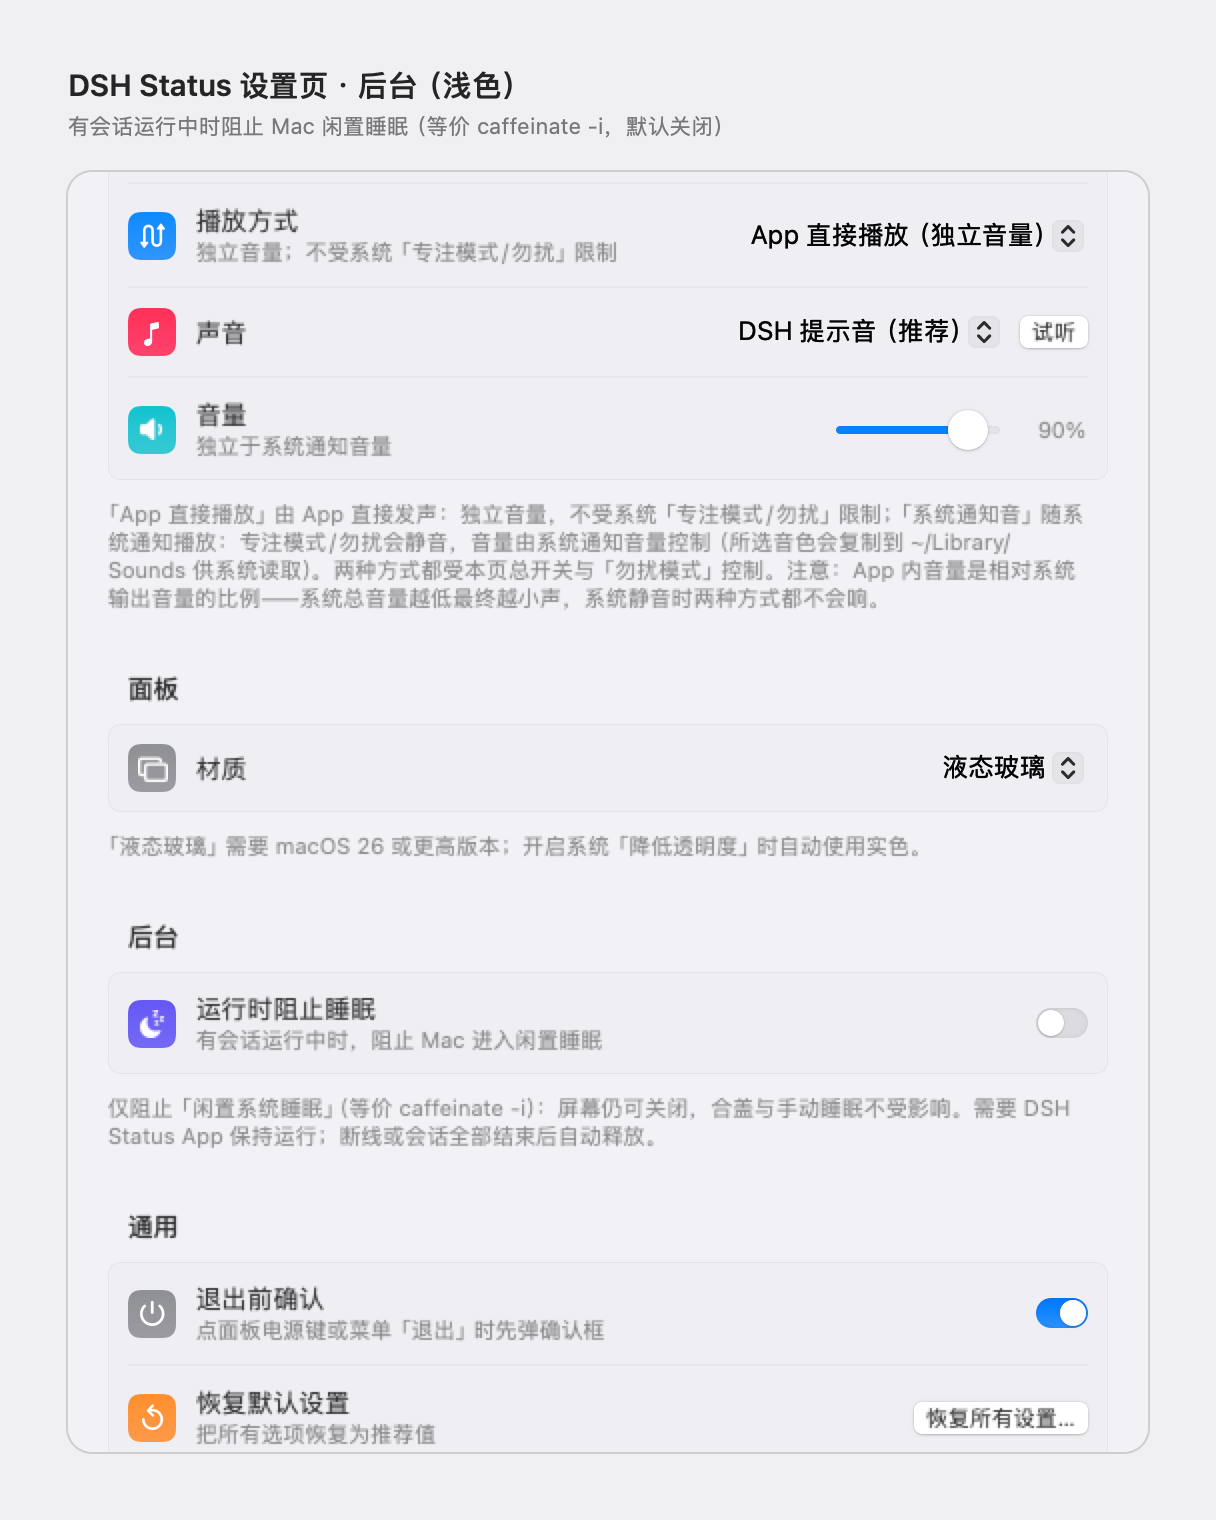
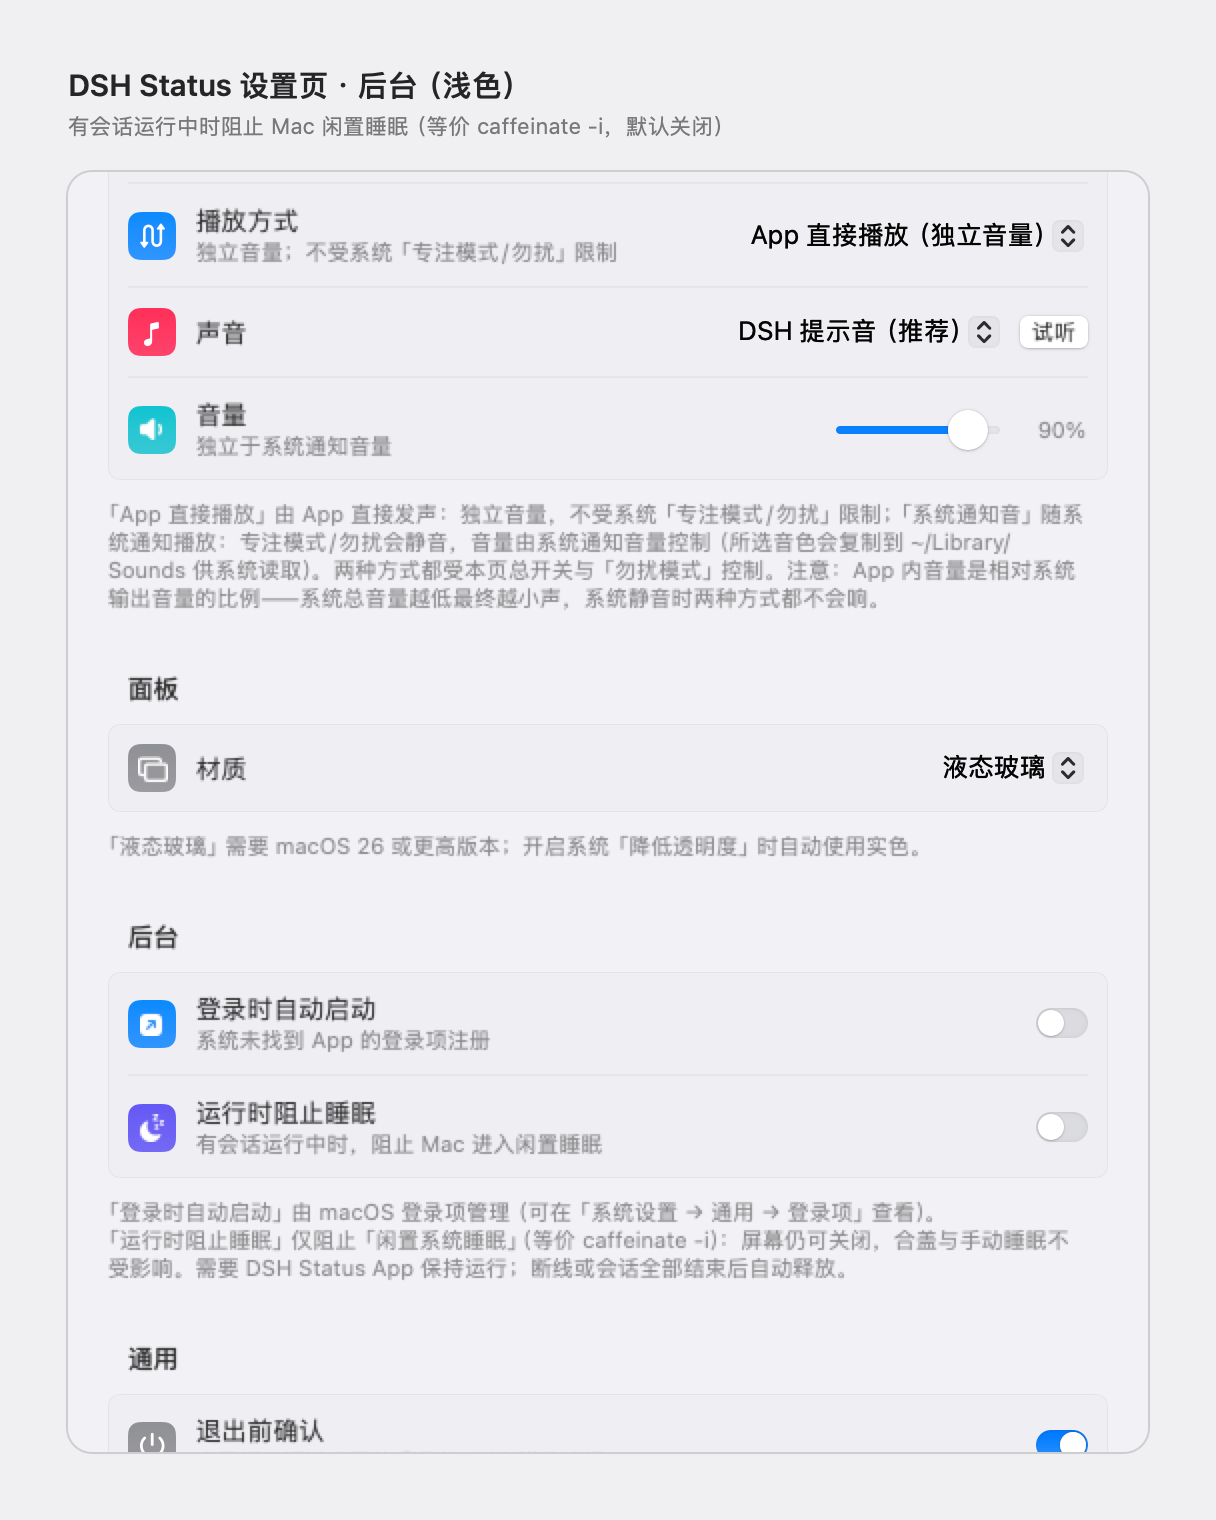
feat(launch-at-login): add login item toggle backed by SMAppService

Changed region(s): [[0.0938, 0.6493, 0.875, 0.9586], [0.75, 0.9276, 0.875, 0.9586]]

diff --git a/app/Sources/DSHStatusBar/LaunchAtLogin.swift b/app/Sources/DSHStatusBar/LaunchAtLogin.swift
@@ -1,0 +1,81 @@
+import Foundation
+import ServiceManagement
+
+/// 「登录时自动启动」的系统状态（macOS 13+ 的 `SMAppService.mainApp`）。
+///
+/// 不把开关存进 `UserDefaults`：登录项的真实状态由系统维护，App 只读取
+/// `SMAppService.mainApp.status` 并据此渲染开关。这样用户在「系统设置 → 通用 → 登录项」
+/// 里手动关掉、或系统要求确认时，设置页仍显示真实状态，不会出现「开关记住了、系统没生效」。
+final class LaunchAtLoginController: ObservableObject {
+    enum State: Equatable {
+        case enabled
+        case disabled
+        /// 已注册但需要用户在「系统设置 → 通用 → 登录项」里放行。
+        case requiresApproval
+        case failed(String)
+    }
+
+    @Published private(set) var state: State = .disabled
+
+    init() { refresh() }
+
+    /// 开关显示值：`requiresApproval` 视为「已开启、等待系统确认」。
+    var isOn: Bool {
+        switch state {
+        case .enabled, .requiresApproval: return true
+        case .disabled, .failed: return false
+        }
+    }
+
+    var detailText: String {
+        switch state {
+        case .enabled: return "登录 macOS 后自动打开 DSH Status"
+        case .disabled: return "登录 macOS 后自动打开 DSH Status"
+        case .requiresApproval: return "已注册，需在「系统设置 → 通用 → 登录项」中允许"
+        case .failed(let message): return message
+        }
+    }
+
+    func refresh() {
+        switch SMAppService.mainApp.status {
+        case .enabled: state = .enabled
+        case .requiresApproval: state = .requiresApproval
+        case .notRegistered: state = .disabled
+        case .notFound: state = .failed("系统未找到 App 的登录项注册")
+        @unknown default: state = .disabled
+        }
+    }
+
+    /// 返回是否成功；失败时 `state == .failed(message)`。
+    @discardableResult
+    func setEnabled(_ enabled: Bool) -> Bool {
+        do {
+            if enabled {
+                try SMAppService.mainApp.register()
+            } else {
+                try SMAppService.mainApp.unregister()
+            }
+        } catch {
+            state = .failed(error.localizedDescription)
+            return false
+        }
+        refresh()
+        return true
+    }
+
+    /// 打开「系统设置 → 通用 → 登录项」。
+    func openLoginItemsSettings() {
+        SMAppService.openSystemSettingsLoginItems()
+    }
+}
+
+extension LaunchAtLoginController.State: CustomStringConvertible {
+    var description: String {
+        switch self {
+        case .enabled: return "enabled"
+        case .disabled: return "disabled"
+        case .requiresApproval: return "requiresApproval"
+        case .failed(let message): return "failed(\(message))"
+        }
+    }
+}

diff --git a/app/Sources/DSHStatusBar/Settings.swift b/app/Sources/DSHStatusBar/Settings.swift
@@ -272,6 +272,8 @@ struct SettingsView: View {
     @ObservedObject var model: AppModel
     /// 「试听」回调（由设置窗口注入；nil 时退化为 App 内播放）。
     var onPreviewSound: (() -> Void)? = nil
+    /// 登录项状态以系统 `SMAppService` 为准（见 LaunchAtLogin.swift）。
+    @StateObject private var launchAtLogin = LaunchAtLoginController()
 
     private let statuses: [SessionStatus] = [.waiting, .running, .completed, .stopped]
 
@@ -291,6 +293,7 @@ struct SettingsView: View {
         .scrollContentBackground(.hidden)
         .frame(maxWidth: .infinity, maxHeight: .infinity)
         .background(Theme.settingsContentBackground)
+        .onAppear { launchAtLogin.refresh() }
     }
 
     // MARK: 菜单栏图标
@@ -632,6 +635,27 @@ struct SettingsView: View {
 
     private var backgroundSection: some View {
         Section {
+            SettingsRow(symbol: "arrow.up.forward.app.fill",
+                        color: .systemBlue,
+                        title: "登录时自动启动",
+                        subtitle: launchAtLogin.detailText) {
+                Toggle("登录时自动启动", isOn: Binding(
+                    get: { launchAtLogin.isOn },
+                    set: { launchAtLogin.setEnabled($0) }
+                ))
+                .labelsHidden()
+                .toggleStyle(.switch)
+            }
+            if case .requiresApproval = launchAtLogin.state {
+                SettingsRow(symbol: "checkmark.shield.fill",
+                            color: .systemOrange,
+                            title: "允许登录项",
+                            subtitle: "系统需要你在登录项列表中确认一次") {
+                    Button("打开系统设置") { launchAtLogin.openLoginItemsSettings() }
+                        .buttonStyle(.bordered)
+                        .controlSize(.small)
+                }
+            }
             SettingsRow(symbol: "moon.zzz.fill",
                         color: .systemIndigo,
                         title: "运行时阻止睡眠",
@@ -645,7 +669,7 @@ struct SettingsView: View {
         } header: {
             Text("后台")
         } footer: {
-            SettingsFootnote("仅阻止「闲置系统睡眠」（等价 caffeinate -i）：屏幕仍可关闭，合盖与手动睡眠不受影响。需要 DSH Status App 保持运行；断线或会话全部结束后自动释放。")
+            SettingsFootnote("「登录时自动启动」由 macOS 登录项管理（可在「系统设置 → 通用 → 登录项」查看）。\n「运行时阻止睡眠」仅阻止「闲置系统睡眠」（等价 caffeinate -i）：屏幕仍可关闭，合盖与手动睡眠不受影响。需要 DSH Status App 保持运行；断线或会话全部结束后自动释放。")
         }
     }
 

diff --git a/app/Sources/DSHStatusBar/AppDelegate.swift b/app/Sources/DSHStatusBar/AppDelegate.swift
@@ -146,6 +146,18 @@ final class AppDelegate: NSObject, NSApplicationDelegate {
                                                                         count: count)
             }
         }
+        if let raw = CommandLine.arguments.first(where: { $0.hasPrefix("--test-launch-at-login") }) {
+            let controller = LaunchAtLoginController()
+            var action = "status"
+            if raw.hasSuffix("=on") {
+                action = controller.setEnabled(true) ? "on-ok" : "on-failed"
+            } else if raw.hasSuffix("=off") {
+                action = controller.setEnabled(false) ? "off-ok" : "off-failed"
+            }
+            print("[dsh-status] launch-at-login action=\(action) state=\(controller.state) "
+                  + "detail=\(controller.detailText)")
+            DispatchQueue.main.asyncAfter(deadline: .now() + 0.3) { NSApp.terminate(nil) }
+        }
         if CommandLine.arguments.contains("--dump-appearance") {
             DispatchQueue.main.asyncAfter(deadline: .now() + 1.4) { [weak self] in
                 self?.statusItemController.dumpAppearanceDebug()

diff --git a/docs/app-design.md b/docs/app-design.md
@@ -174,6 +174,7 @@
 | | 音量 | App 方式：0–100% **独立音量**（默认 90%）；系统方式：禁用并显示「系统」（由系统通知音量控制） |
 | | 自定义音频 | 仅在选择「自定义音频文件…」时出现；选择后立即试听，路径持久化；系统方式下会复制到 `~/Library/Sounds` |
 | 面板 | 材质 | 液态玻璃（macOS 26+ 默认）/ 经典磨砂 / 实色 |
+| 后台 | 登录时自动启动 | 默认关；用 `SMAppService.mainApp` 注册为系统登录项（macOS 13+）；需要系统确认时引导到「系统设置 → 通用 → 登录项」 |
 | 后台 | 运行时阻止睡眠 | 默认关；有会话运行中时阻止 Mac 闲置睡眠（等价 `caffeinate -i`） |
 | 通用 | 退出前确认 | 点面板电源键或右键「退出」时先弹确认框 |
 | | 恢复所有设置… | NSAlert 二次确认后恢复推荐默认值 |
@@ -284,6 +285,8 @@ app/
     SettingsWindow.swift        // 设置窗口 chrome（标准 NSWindow / frame autosave）
     NotificationManager.swift   // 通知权限与横幅发送（通知音交给 NotificationSound）
     NotificationSound.swift     // 提示音：送达方式 / 音色选项 / NSSound 播放器 / 系统通知音落地 / 自检
+    SleepPrevention.swift       // 运行时阻止睡眠（PreventUserIdleSystemSleep 断言）
+    LaunchAtLogin.swift         // 登录时自动启动（SMAppService.mainApp 注册/注销 + 系统登录项状态）
     Theme.swift                 // 设计 token（系统语义色 / 尺寸 / hover）
     PreviewRenderer.swift       // 离屏预览图（图标矩阵 / 面板 / 场景 / 设置页）
 ```
@@ -295,6 +298,8 @@ app/
   - `--animate-subagents`：打开面板 → 展开 → 收起第一个有子智能体的会话，用于逐帧核对高度动画。
   - `--test-icon-transitions[=<起始步>,<步数>]`：脚本化回放全部图标状态迁移（每步打印时间线并自动退出）。
   - `--test-sound[=<option>,<volume>[,<customPath>]]`：按指定选项/音量试听提示音后退出（默认用当前设置）。
+  - `--test-launch-at-login[=on|off]`：查询/注册/注销登录项并打印 `SMAppService` 状态，便于核对自启动。
+  - `--dump-appearance`：打印 `NSApp.effectiveAppearance` 与菜单栏实际外观（`NSStatusBarButton.effectiveAppearance`），核对深浅色识别。
   - `DSH_STATUS_SOUND_DELIVERY=app|system`：`--test-sound` 时强制送达方式（验收两种通道用）。
   - `DSH_STATUS_SETTINGS_SOUND_DELIVERY=app|system` / `_SOUND_OPTION=<option>`：离屏设置页预览时覆盖提示音状态。
   - `--self-test-sound`：提示音自检（资源打包 / 选项解析 / 音量映射 / 设置持久化），无音频硬件依赖。

diff --git a/CHANGELOG.md b/CHANGELOG.md
@@ -8,6 +8,28 @@ All notable changes to this project are documented here, in Chinese and English.
 This project adheres to [Keep a Changelog](https://keepachangelog.com/en/1.1.0/)
 and [Semantic Versioning](https://semver.org/).
 
+## [0.2.2] - 2026-11-09
+
+### 中文
+
+#### 新增
+- **登录时自动启动**：设置页「后台」分区新增开关（默认关，macOS 13+），通过
+  `SMAppService.mainApp` 注册/注销系统登录项；需要系统确认时在设置页提示并可直接打开
+  「系统设置 → 通用 → 登录项」。状态每次从系统读取，不写入 UserDefaults。
+- 调试入口 `--test-launch-at-login[=on|off]`：查询/注册/注销登录项并打印状态。
+
+### English
+
+#### Added
+- **Launch at login**: new switch in **Settings → Background** (off by default, macOS 13+),
+  backed by `SMAppService.mainApp`. When macOS requires approval, the settings page says so and
+  offers a button to open **System Settings → General → Login Items**. The state is always read
+  from the system, never persisted separately.
+- Debug entry `--test-launch-at-login[=on|off]` prints the login-item state after an optional
+  register/unregister.
+
+---
+
 ## [0.2.1] - 2026-11-09
 
 ### 中文

diff --git a/app/README.md b/app/README.md
@@ -49,4 +49,5 @@ See the root [README](../README.md) for the product overview and
 - `NotificationManager.swift`, `NotificationSound.swift` — system notifications and alert sounds
 - `SleepPrevention.swift` — optional idle-sleep prevention while sessions are running
 - `AppModel.swift`, `AppDelegate.swift`, `Models.swift`, `Theme.swift` — state model, app lifecycle, data types, design tokens
+- `LaunchAtLogin.swift`, `SleepPrevention.swift` — launch-at-login (`SMAppService`) and idle-sleep prevention
 - `PreviewRenderer.swift` — off-screen preview rendering

diff --git a/README.md b/README.md
@@ -72,6 +72,9 @@ the running count in the center.*
 
 ### Background
 
+- **Launch at login** (off by default, macOS 13+). Registers through the system
+  login items (`SMAppService`); toggle it in **Settings → Background**. If macOS
+  asks for approval, allow DSH Status under **System Settings → General → Login Items**.
 - **Prevent idle sleep while sessions are running** (off by default). While at
   least one session is running and the bridge is connected, the app keeps the
   Mac awake; the screen may still turn off, and closing the lid or sleeping

diff --git a/README.zh.md b/README.zh.md
@@ -56,6 +56,8 @@
 
 ### 后台
 
+- **登录时自动启动**（默认关闭，macOS 13+）。通过系统「登录项」（`SMAppService`）注册，
+  在 **设置 → 后台** 中开关；若系统要求确认，请在 **系统设置 → 通用 → 登录项** 中允许。
 - **有会话运行时阻止闲置睡眠**（默认关闭）。开启后，只要有会话在运行且桥已连接，
   App 就会阻止 Mac 进入闲置睡眠；屏幕仍可关闭，合盖与手动睡眠不受影响。
 
